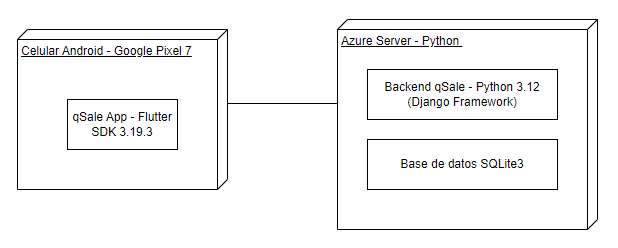
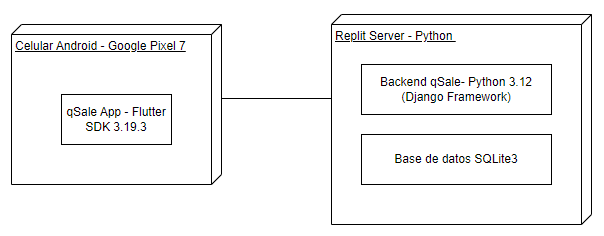
UPDATE - CAMBIIOS DONE

diff --git a/README.md b/README.md
@@ -37,7 +37,8 @@ Para iniciar con el desarrollo de la aplicacion primero fue necesario realizar e
 
 El diagrama de despliegue representa la disposición física de los componentes del sistema mostrando como estos interactúan entre sí en una cierta infraestructura. 
 
-Para el desarollo de nuestro proyecto utilizaremos un celular simulado modelo Google Pixel 7 , el cual va a ejecutar nuestra app
+Para el desarollo de nuestro proyecto utilizaremos un celular simulado modelo Google Pixel 7 , el cual va a ejecutar nuestra app qSale desarrollada en FlutterSDK v3.19.3. Nuestro Backend y Base de datos se van a encontrar soportados en Replit. El backend qSale estará desarrollado en Python v3.12 usando el framework Django y la base de datos será una base de datos SQLite3.
+
 ### Requerimientos no funcionales
 
 ### Diagrama de casos de uso
